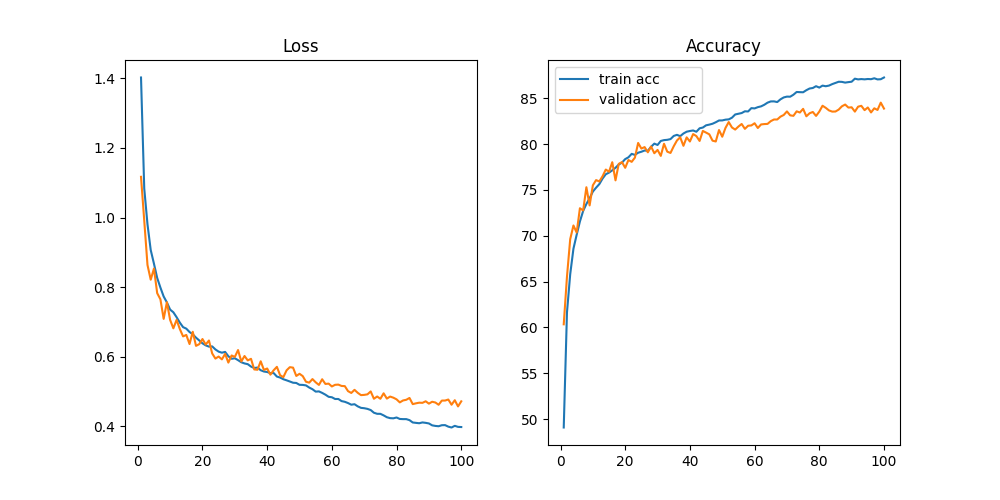
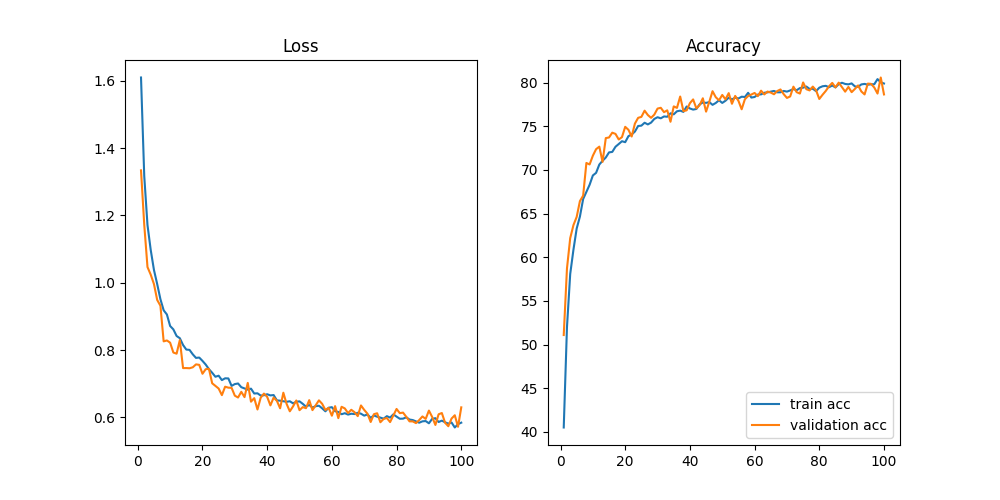
modified mixup augmentation for concatenating dataset, need reservioned

diff --git a/train_student.py b/train_student.py
@@ -9,7 +9,7 @@ from utils import *
 torch.manual_seed(0)
 
 parser = argparse.ArgumentParser(description='Implementation of training student network')
-parser.add_argument('--mixup', default=True, type=bool)
+parser.add_argument('--mixup', default=30, type=int)
 args = parser.parse_args()
 
 device = torch.device("cuda:0" if torch.cuda.is_available() else "cpu")
@@ -21,11 +21,10 @@ model = SimpleNet().to(device)
 num_epochs = 100
 lr = 0.001
 batch_size = 128
-# optimizer = torch.optim.SGD(model.parameters(), lr=lr, momentum=0.9, weight_decay=5e-4)
 optimizer = torch.optim.Adam(model.parameters(), lr=lr, weight_decay=5e-4)
-scheduler = torch.optim.lr_scheduler.CosineAnnealingLR(optimizer, T_max=num_epochs)
+# scheduler = torch.optim.lr_scheduler.CosineAnnealingLR(optimizer, T_max=num_epochs)
 
-train_loader, val_loader, test_loader = DataLoader(batch_size=batch_size, train_val_split=0.8, mixup=args.mixup)
+train_loader, val_loader, test_loader = DataLoader(batch_size=batch_size, train_val_split=0.8)
 train_total_loss, train_total_acc, val_total_loss, val_total_acc = [], [], [], []
 
 best_acc = 0.0
@@ -35,8 +34,15 @@ for epoch in range(num_epochs):
     model.train()
     train_total = 0
     train_loss, train_correct = 0, 0
-    for x, label in train_loader:
-        x, label = x.to(device), label.to(device)
+    for idx, (x, label) in enumerate(train_loader):
+        x, label = x.to(device), label.long().to(device)
+
+        # turn label to one_hot encoding
+        if idx % args.mixup == 0:
+            x, label = mixup(x, label)
+        else:
+            label = F.one_hot(label)
+
         optimizer.zero_grad()
         output = model(x)
 
@@ -64,15 +70,13 @@ for epoch in range(num_epochs):
 
             predicted = torch.argmax(outputs.data, 1)
             val_total += target.size(0)
-
-            target = torch.argmax(target.data, 1)
             val_correct += (predicted == target).sum().item()
 
             val_loss += loss_fn(outputs, target).item()
     val_total_loss.append(val_loss / len(val_loader))
     val_total_acc.append(100 * val_correct / val_total)
 
-    scheduler.step()
+    # scheduler.step()
     
     print('Epoch: {}/{}'.format(epoch+1, num_epochs))
     print('[Train] loss: {:.5f}, acc: {:.2f}%'.format(train_total_loss[-1], train_total_acc[-1]))
@@ -107,7 +111,6 @@ with torch.no_grad():
         predicted = torch.argmax(outputs.data, 1)
         total += labels.size(0)
 
-        labels = torch.argmax(labels.data, 1)
         correct += (predicted == labels).sum().item()
     print(f'\n[Test] Accuracy: {100 * correct / total}%')
 

diff --git a/data_loader.py b/data_loader.py
@@ -19,33 +19,35 @@ def DataLoader(batch_size=128, train_val_split=0.8, mixup=True):
         torchvision.transforms.Normalize((0.485, 0.456, 0.406), (0.229, 0.224, 0.225)),
     ])
 
-    transform_aug = torchvision.transforms.Compose([
-        torchvision.transforms.ToTensor(),
-        torchvision.transforms.Normalize((0.485, 0.456, 0.406), (0.229, 0.224, 0.225)),
-    ])
+    # transform_aug = torchvision.transforms.Compose([
+    #     torchvision.transforms.ToTensor(),
+    #     torchvision.transforms.Normalize((0.485, 0.456, 0.406), (0.229, 0.224, 0.225)),
+    # ])
 
-    # dataset = torchvision.datasets.CIFAR10(root='./data', download=False, train=True, transform=transform_train)
-    # testset = torchvision.datasets.CIFAR10(root='./data', download=False, train=False, transform=transform_test)
+    dataset = torchvision.datasets.CIFAR10(root='./data', download=False, train=True, transform=transform_train)
+    testset = torchvision.datasets.CIFAR10(root='./data', download=False, train=False, transform=transform_test)
 
-    dataset = Mixup_Dataset('./data/cifar-10-batches-py/', train=True, mixup=False, transform=transform_train)
-    testset = Mixup_Dataset('./data/cifar-10-batches-py/', train=False, mixup=False, transform=transform_test)
+    # dataset = Mixup_Dataset('./data/cifar-10-batches-py/', train=True, mixup=False, transform=transform_train)
+    # testset = Mixup_Dataset('./data/cifar-10-batches-py/', train=False, mixup=False, transform=transform_test)
 
     train_size = int(len(dataset) * train_val_split)
     val_size= len(dataset) - train_size
     trainset, valset = torch.utils.data.random_split(dataset, [train_size, val_size])
 
+    '''
     if mixup:
         mixup_dataset = Mixup_Dataset('./data/cifar-10-batches-py/', train=True, mixup=True, transform=transform_aug)
         print('[INFO] Create Mixup data augmentation...')
     else:
         mixup_dataset = None
-
+    
     trainset_aug = torch.utils.data.ConcatDataset([trainset, mixup_dataset])
 
     print('Original trainset: {} samples, Mixup augmentation: {} samples'.format(len(trainset), len(mixup_dataset)))
     print('Total dataset: {} samples.'.format(len(trainset_aug)))
+    '''
 
-    train_loader = torch.utils.data.DataLoader(trainset_aug, batch_size=batch_size, shuffle=True)
+    train_loader = torch.utils.data.DataLoader(trainset, batch_size=batch_size, shuffle=True)
     val_loader = torch.utils.data.DataLoader(valset, batch_size=batch_size, shuffle=True)
     test_loader = torch.utils.data.DataLoader(testset, batch_size=batch_size, shuffle=True)
 

diff --git a/train_teacher.py b/train_teacher.py
@@ -10,7 +10,7 @@ from models.mobilenetv2 import MobileNetV2
 torch.manual_seed(0)
 
 parser = argparse.ArgumentParser(description='Implementation of training teacher network')
-parser.add_argument('--mixup', default=True, type=bool)
+parser.add_argument('--mixup', default=2, type=int)
 args = parser.parse_args()
 
 device = torch.device("cuda:0" if torch.cuda.is_available() else "cpu")
@@ -53,18 +53,25 @@ for epoch in range(num_epochs):
     train_loss = 0
     train_total, train_correct = 0, 0
     model.train()
-    for inputs, targets in train_loader:
+    for idx, (x, label) in enumerate(train_loader):
+        x, label = x.to(device), label.long().to(device)
+
+        # turn label to one_hot encoding
+        if idx % args.mixup == 0:
+            x, label = mixup(x, label)
+        else:
+            label = F.one_hot(label)
+
         optimizer.zero_grad()
-        inputs, targets = inputs.to(device), targets.to(device)
-        outputs = model(inputs)
+        outputs = model(x)
 
         predicted = torch.argmax(outputs.data, 1)
-        train_total += targets.size(0)
+        train_total += label.size(0)
 
-        targets = torch.argmax(targets.data, 1)
-        train_correct += (predicted == targets).sum().item()
+        label = torch.argmax(label.data, 1)
+        train_correct += (predicted == label).sum().item()
 
-        loss = loss_fn(outputs, targets)
+        loss = loss_fn(outputs, label)
         loss.backward()
         optimizer.step()
 
@@ -82,8 +89,6 @@ for epoch in range(num_epochs):
 
             predicted = torch.argmax(outputs.data, 1)
             val_total += targets.size(0)
-
-            targets = torch.argmax(targets.data, 1)
             val_correct += (predicted == targets).sum().item()
 
             val_loss += loss_fn(outputs, targets).item()
@@ -125,7 +130,6 @@ with torch.no_grad():
         predicted = torch.argmax(outputs.data, 1)
         total += labels.size(0)
 
-        labels = torch.argmax(labels.data, 1)
         correct += (predicted == labels).sum().item()
     print(f'[Test] Accuracy: {100 * correct / total}%')
 

diff --git a/utils.py b/utils.py
@@ -1,6 +1,8 @@
 import numpy as np
 import matplotlib.pyplot as plt
+import torch
 import torch.nn as nn
+import torch.nn.functional as F
 
 def imshow(img):
     img = img / 2 + 0.5
@@ -8,11 +10,17 @@ def imshow(img):
     plt.imshow(np.transpose(npimg, (1, 2, 0)))
     plt.show()
 
-def reset_wieghts(m):
-    for layer in m.children():
-        if hasattr(layer, 'reset_parameters'):
-            print(f'Reset trainable parameters of layer {layer}')
-            layer.reset_parameters()
+def mixup(img, label, alpha=0.2):
+    lamb = np.random.beta(alpha, alpha)
+    mixup_idx = torch.randperm(len(img))
+
+    mixup_img = img[mixup_idx]
+    mixup_label = label[mixup_idx]
+
+    labels = F.one_hot(label).long()
+    mixup_labels = F.one_hot(mixup_label).long()
+    
+    return lamb * img + (1 - lamb) * mixup_img, lamb * labels + (1 - lamb) * mixup_labels
 
 def loss_fn(outputs, labels):
     return nn.CrossEntropyLoss()(outputs, labels)
